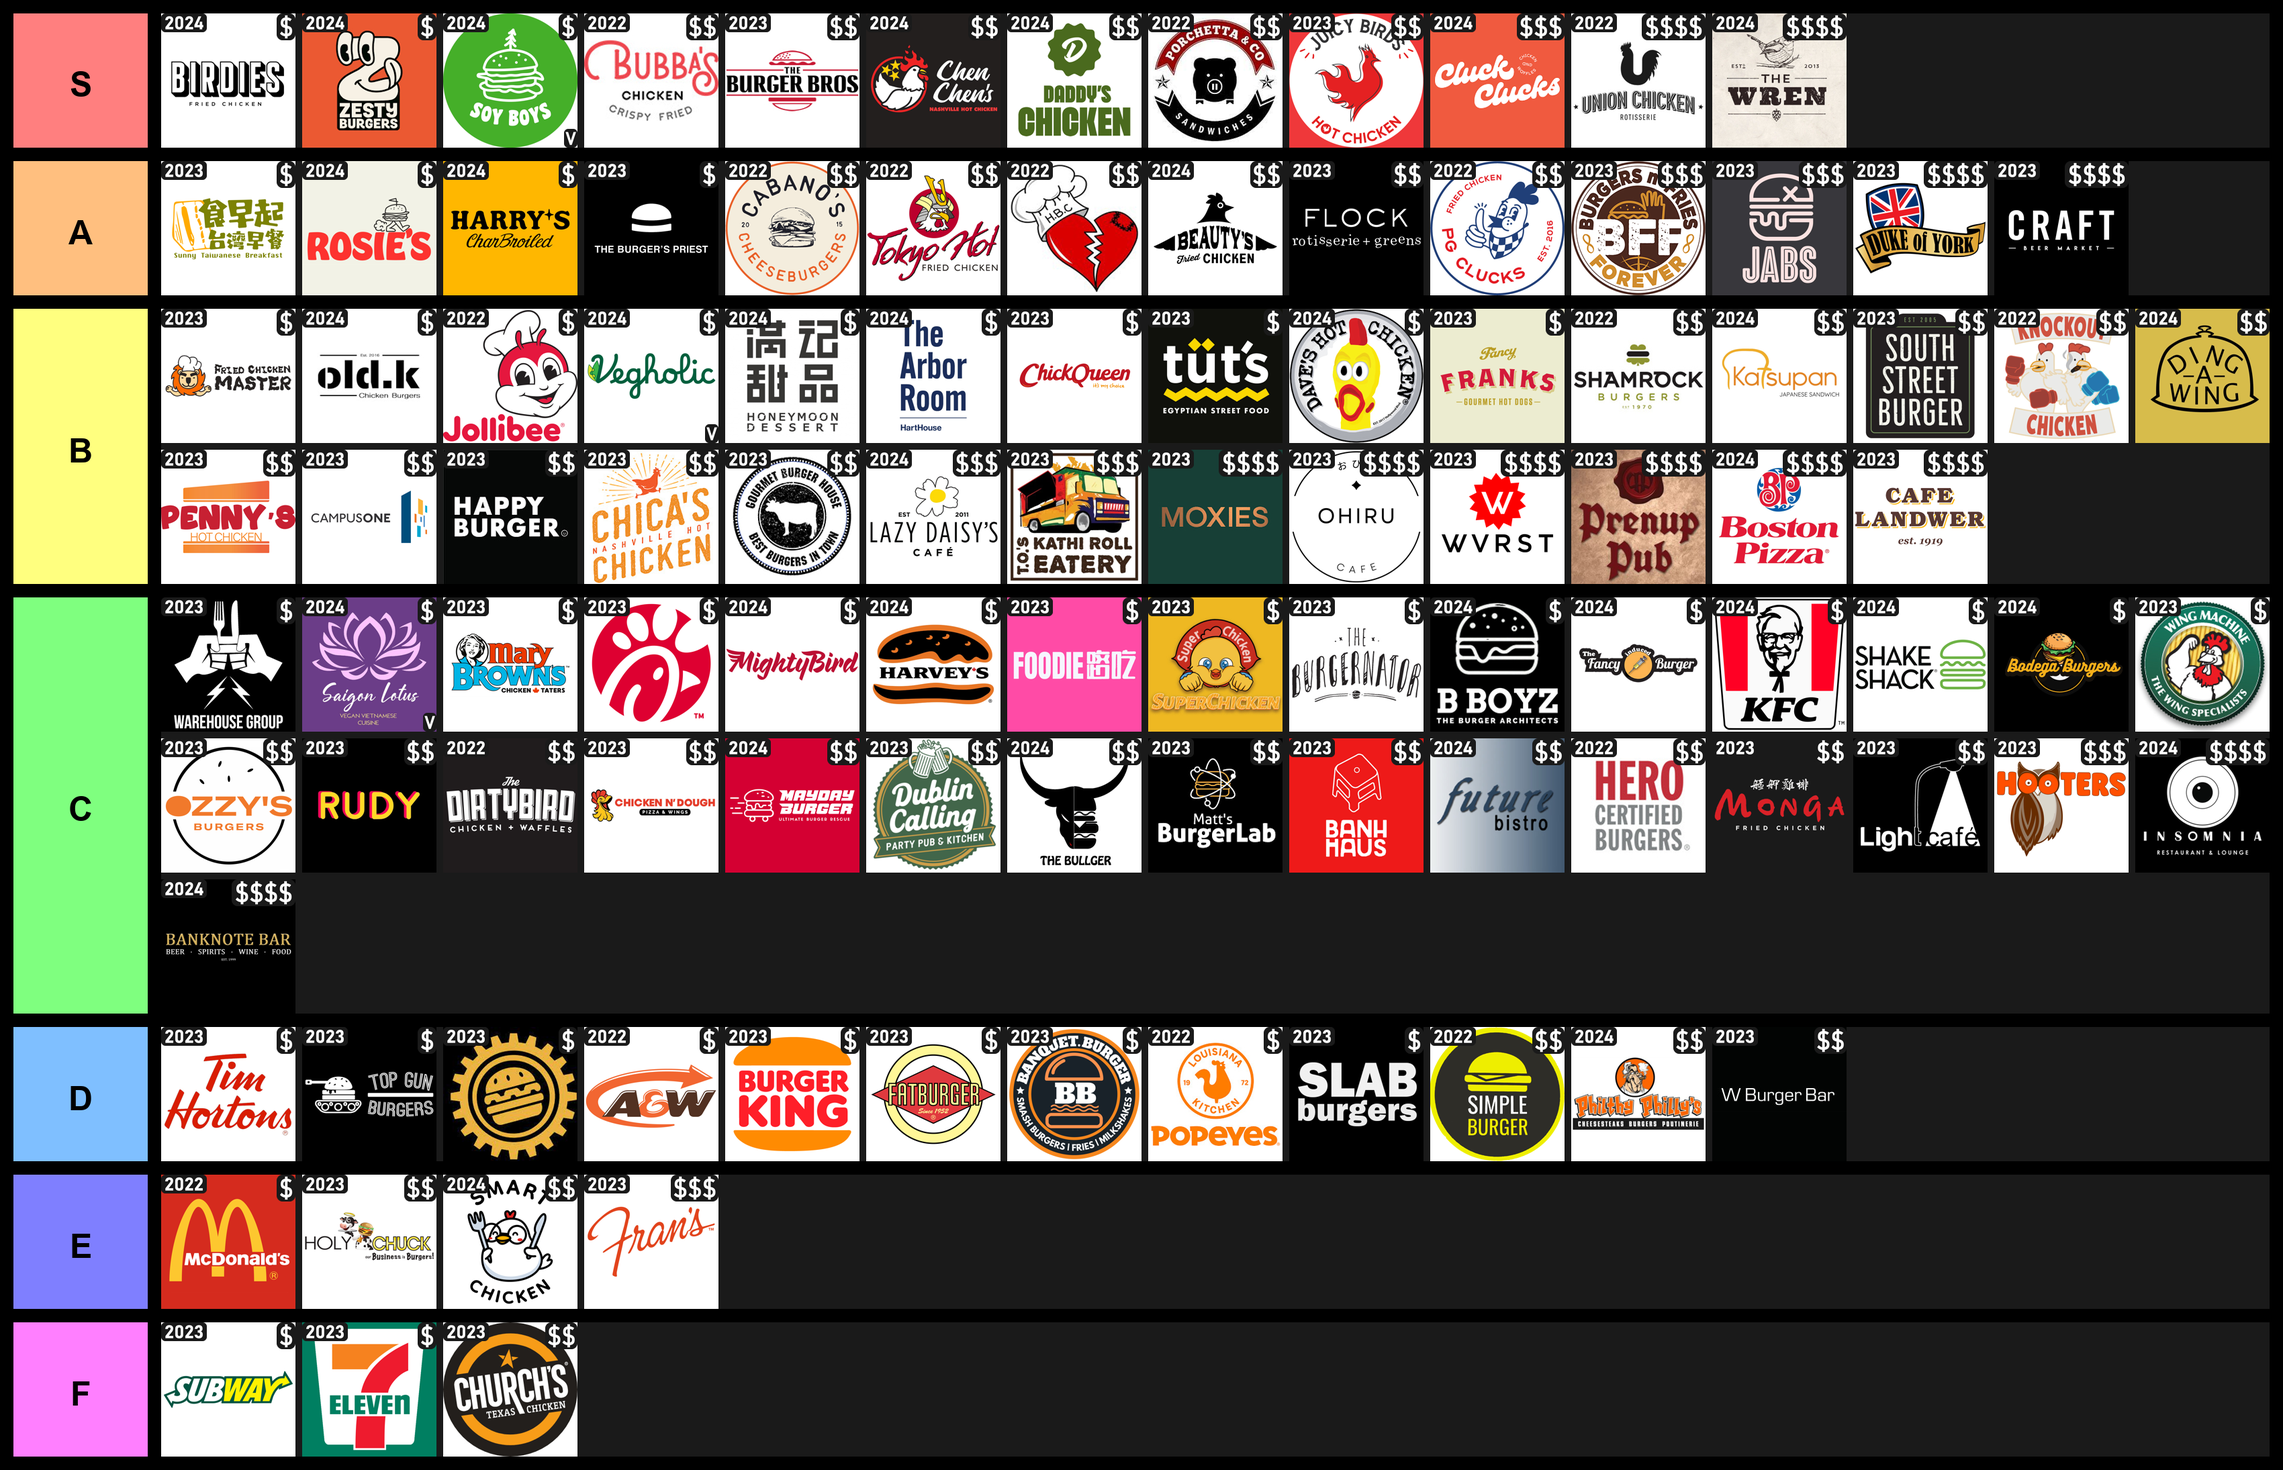
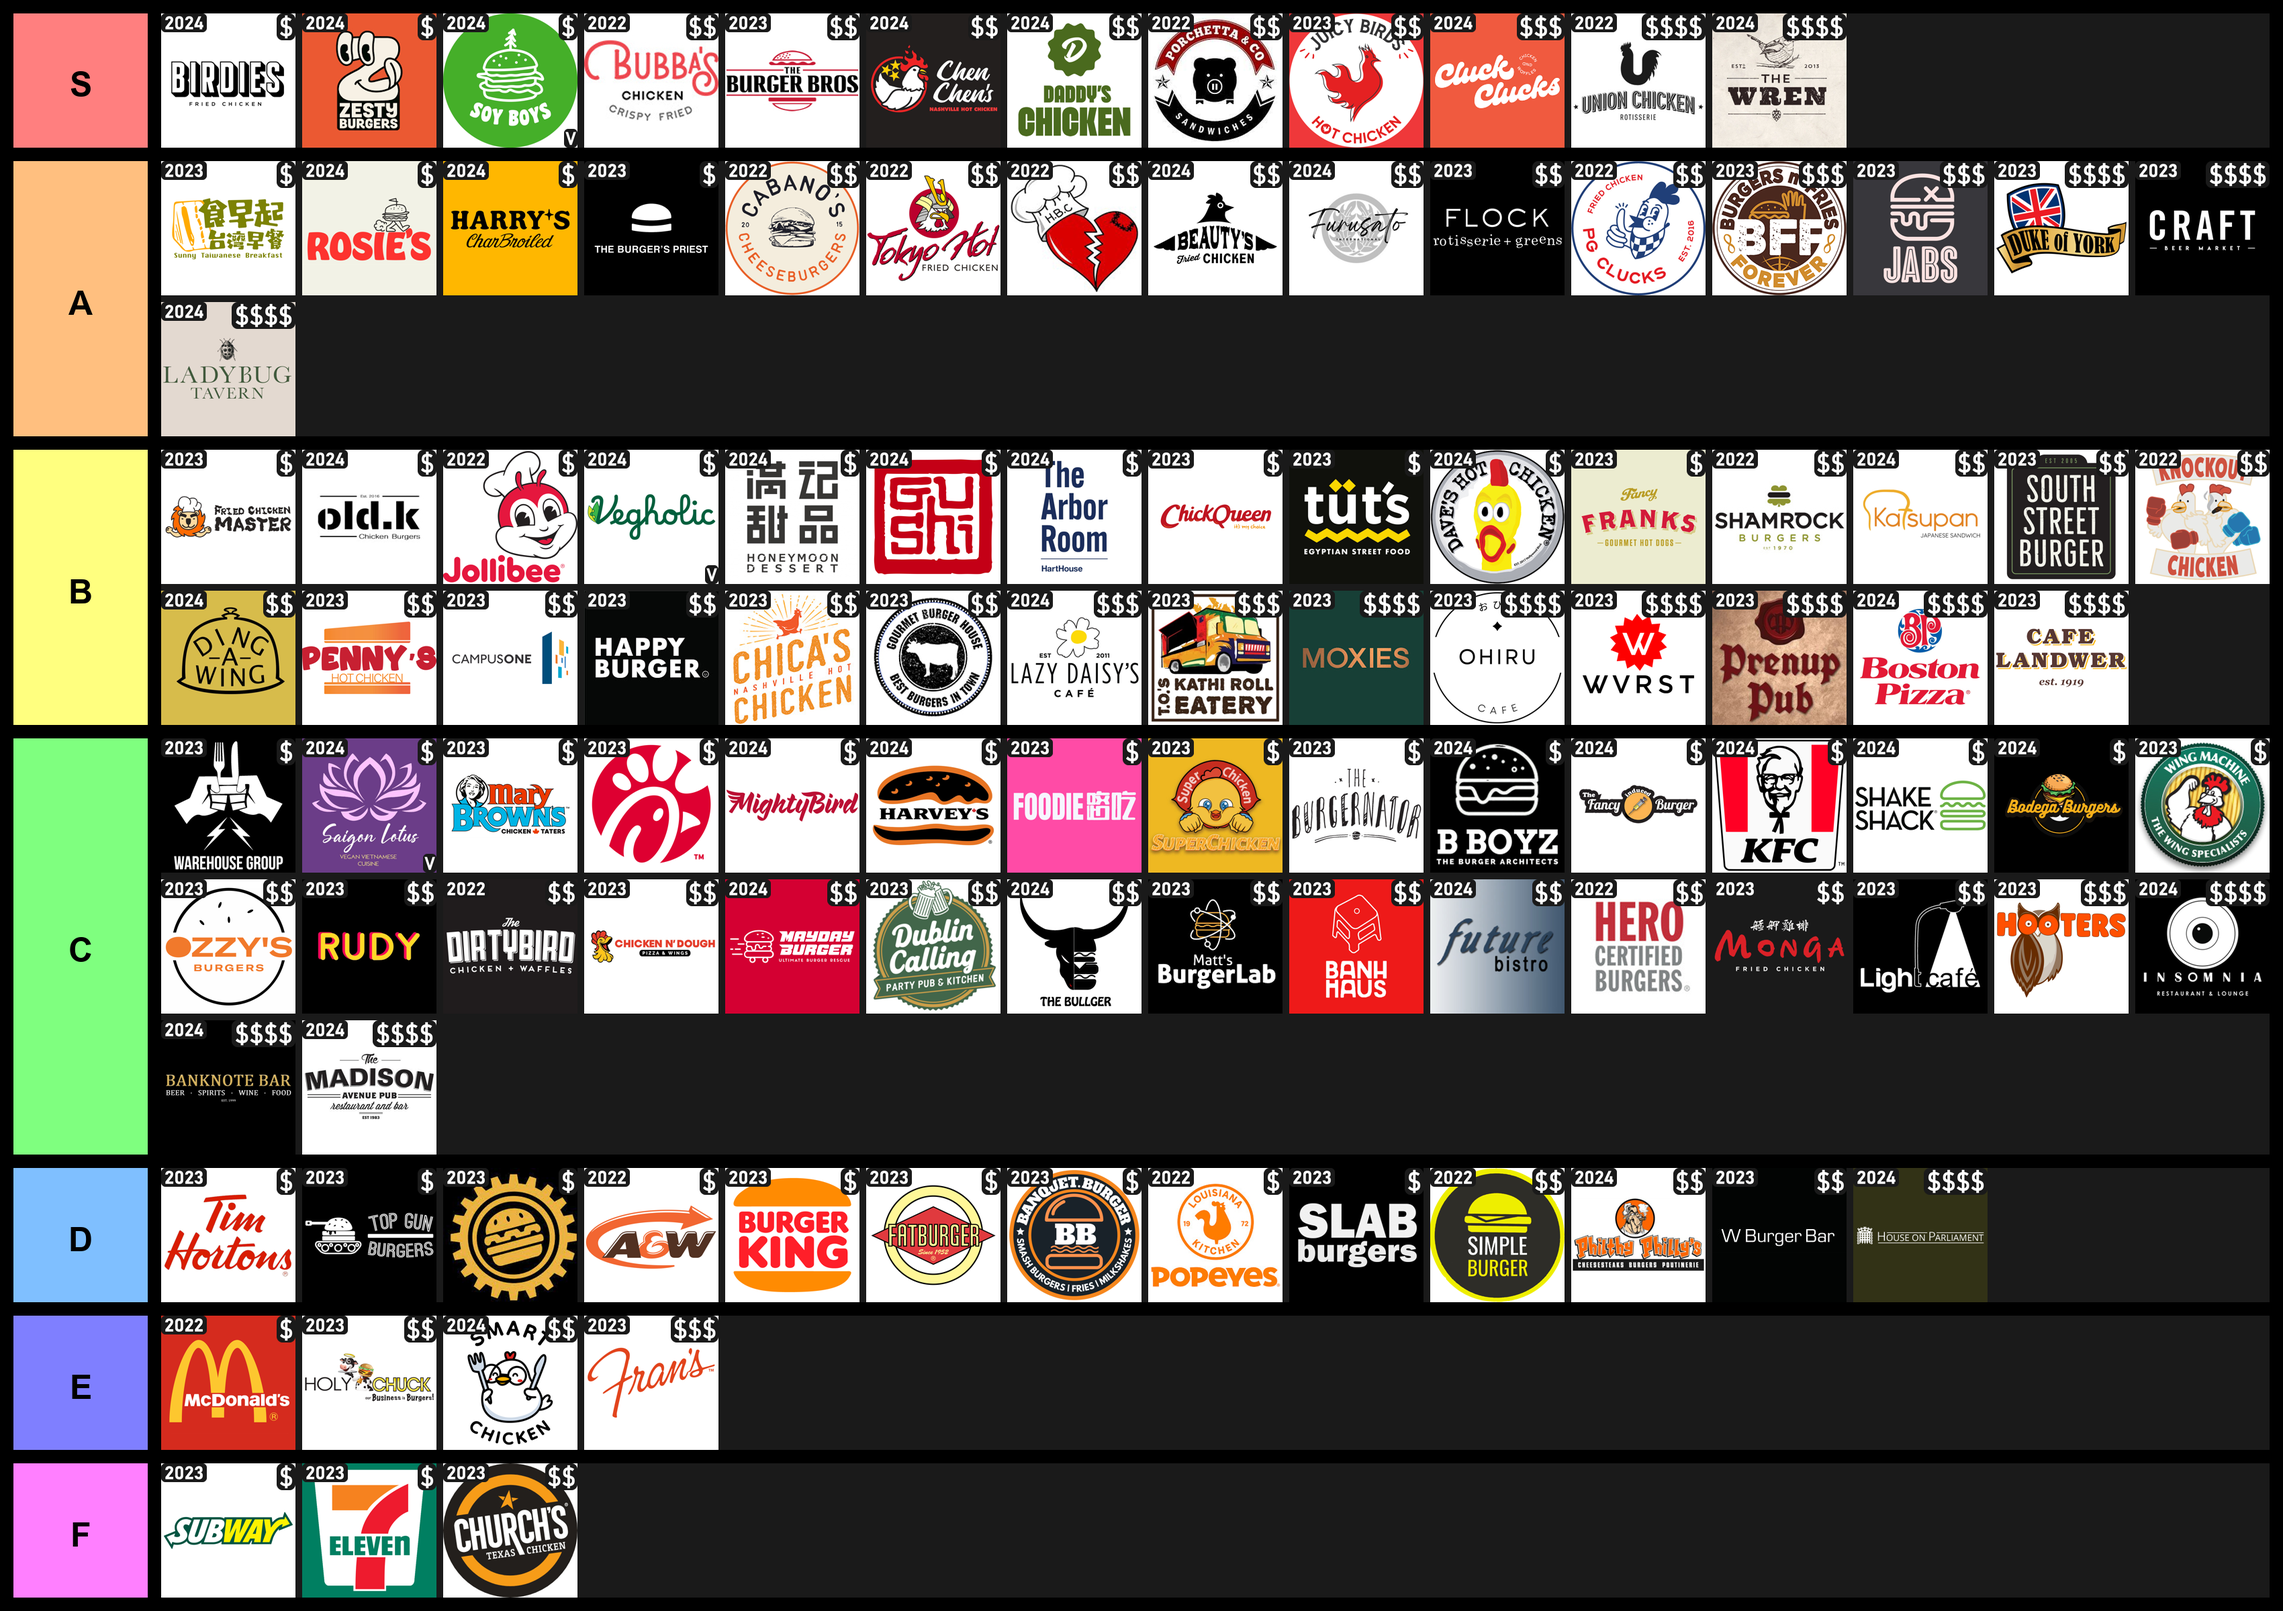
Bulk add new places (#7)
* Add Furusato

* Add Gushi Japanese Street Food

* Add Madison Avenue Pub

* Add House on Parliament

* Add Ladybug Tavern

* Modify test cutoff

diff --git a/tests.py b/tests.py
@@ -25,7 +25,7 @@ LOGOS_PATH = "logos"
 
 class TestMakeTierList(unittest.TestCase):
     def test_make_tierlist_performance(self):
-        cutoff = 3
+        cutoff = 3.6
         start = time.time()
         make_tierlist()
         end = time.time()
